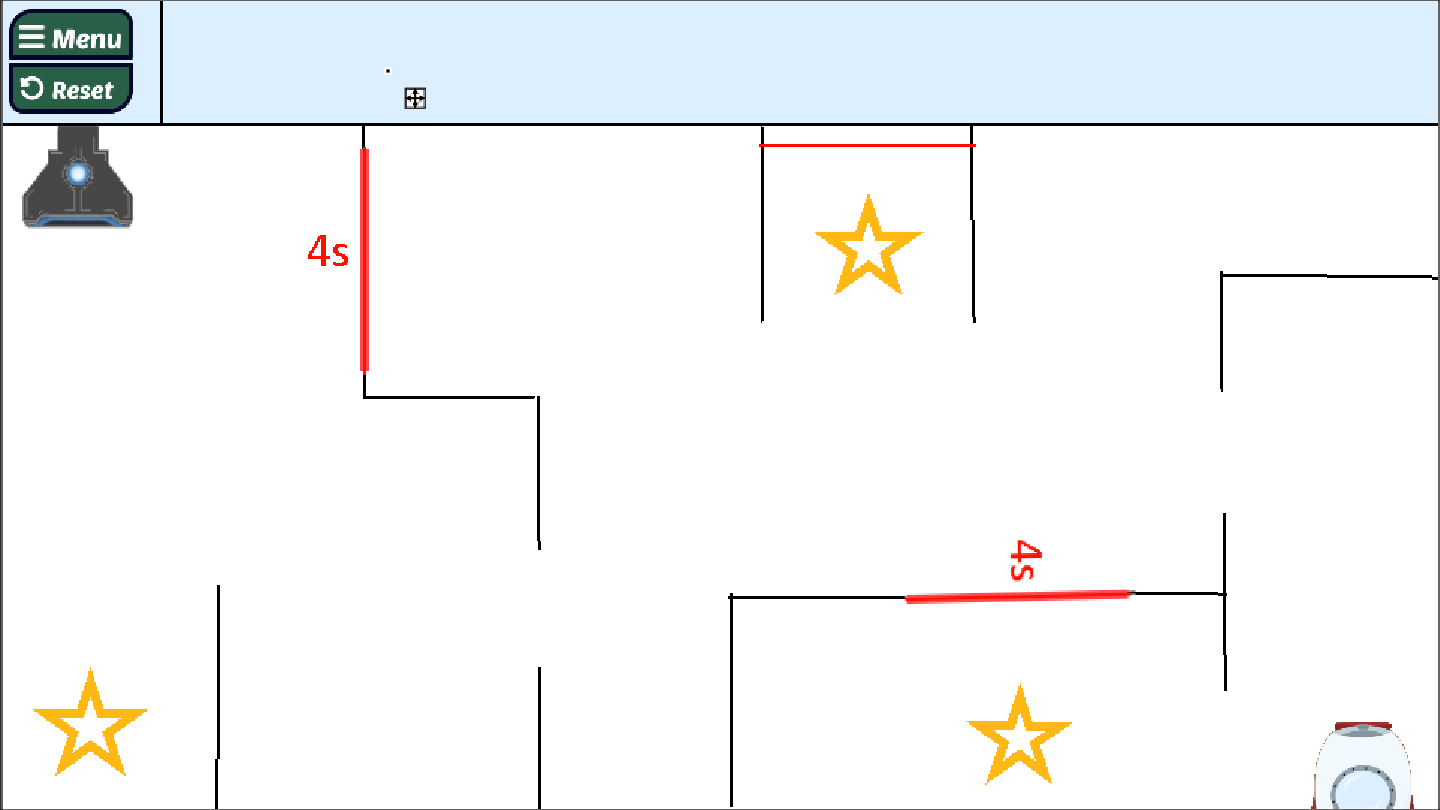
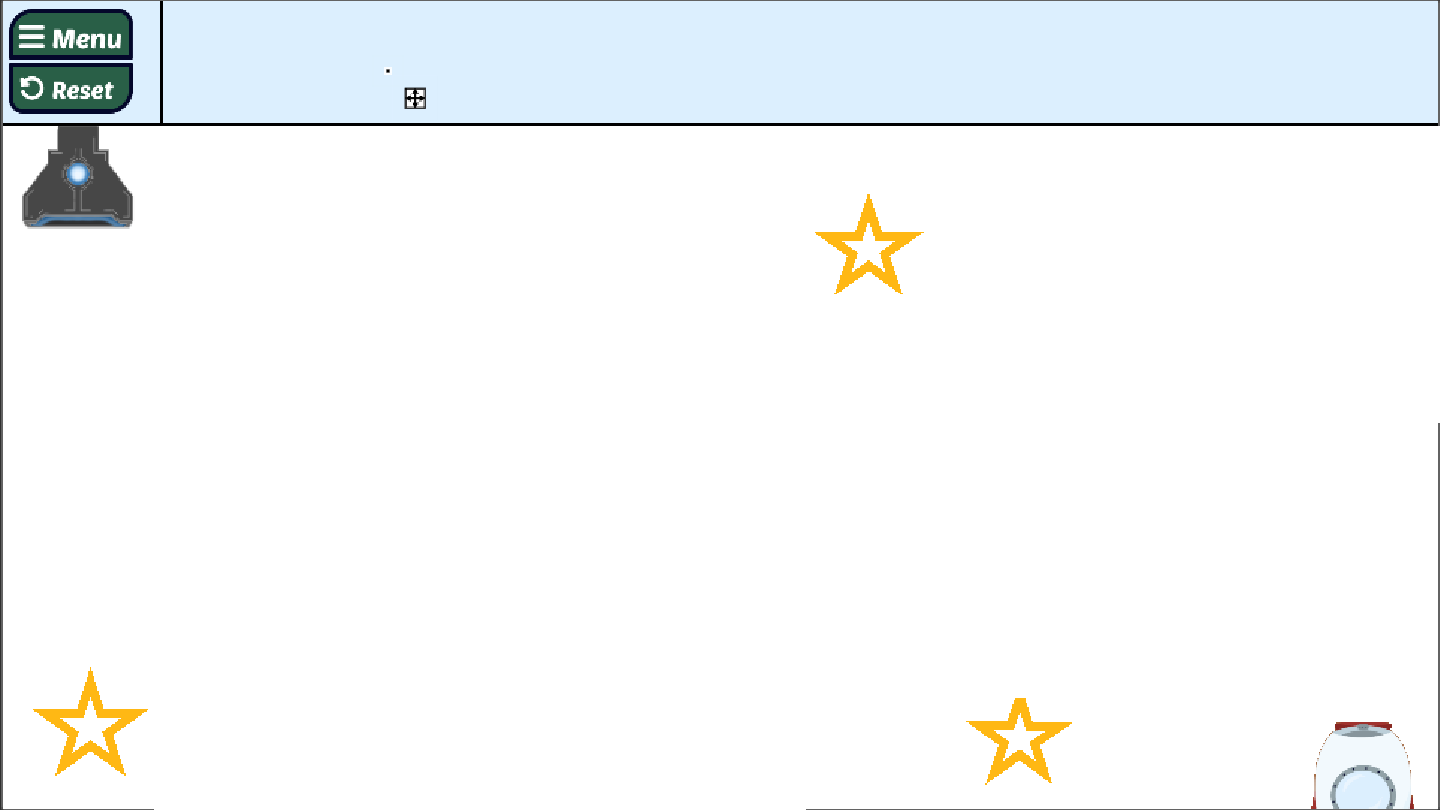
Lasers?
This might be useless, but just to be sure

diff --git a/GXPEngine/Classes/Destroyer.cs b/GXPEngine/Classes/Destroyer.cs
@@ -1,0 +1,73 @@
+using System;
+using System.Collections.Generic;
+using System.Linq;
+using System.Text;
+using GXPEngine;
+using GXPEngine.Physics;
+
+class Destroyer : GameObject
+{
+    Timer laserDelay;
+    bool on;
+    Laser laser;
+    int width;
+    int height;
+
+    private void On()
+    {
+        on = true;
+
+        laser = new Laser(width, height, (int)x, height / 2 + (int)y);
+        laser.position.RotateAroundDegrees(rotation, new GXPEngine.Core.Vector2(x, y));
+        laser.vecRotation.RotateDegrees(rotation);
+        game.Currentscene.AddChild(laser);
+
+        laserDelay.Start();
+    }
+    private void Off()
+    {
+        on = false;
+        laser.LateRemove();
+        laserDelay.Start();
+    }
+
+    public Destroyer(int width, int height, int x, int y, float pRotation = 0) : base()
+    {
+        this.x = x;
+        this.y = y;
+        this.width = width;
+        this.height = height;
+        this.rotation = pRotation;
+
+        laserDelay = new Timer(4f);
+        AddChild(laserDelay);
+
+        PhysicsRectangle side = new PhysicsRectangle(width, width, x, y);
+        side.position.RotateAroundDegrees(rotation, new GXPEngine.Core.Vector2(x, y));
+        side.SetColor(System.Drawing.Color.Gray);
+        game.Currentscene.AddChild(side);
+
+        side = new PhysicsRectangle(width, width, x, height + y);
+        side.position.RotateAroundDegrees(rotation, new GXPEngine.Core.Vector2(x, y));
+        side.SetColor(System.Drawing.Color.Gray);
+        game.Currentscene.AddChild(side);
+
+        On();
+    }
+
+    void Update()
+    {
+        if (laserDelay.done)
+        {
+            if (on)
+            {
+                Off();
+            }
+            else if (!on)
+            {
+                On();
+            }
+        }
+    }
+}
+

diff --git a/GXPEngine/GXPEngine/AddOns/Timer.cs b/GXPEngine/GXPEngine/AddOns/Timer.cs
@@ -7,39 +7,36 @@ using GXPEngine;
 class Timer : GameObject
 {
     public float maxSeconds;
-    float second;
-    int framesCounter;
+    float miniSeconds;
     bool active;
     public bool done;
 
     public float seconds
     {
-        get { return second; }
+        get { return miniSeconds/1000; }
     }
 
     public Timer() : base()
     {
-        start();
+        Start();
     }
 
     public Timer(float setMaxSeconds) : base()
     {
         maxSeconds = setMaxSeconds;
-        start();
+        Start();
     }
 
-    public void start()
+    public void Start()
     {
         done = false;
-        second = 0;
-        framesCounter = 0;
+        miniSeconds = 0;
         active = true;
     }
 
-    public void stop()
+    public void Stop()
     {
-        second = 0;
-        framesCounter = 0;
+        miniSeconds = 0;
         active = false;
     }
 
@@ -47,19 +44,11 @@ class Timer : GameObject
     {
         if (active)
         {
-            if (framesCounter >= 3)
-            {
-                framesCounter = 0;
-                second += 0.05f;
-            }
-            else
-            {
-                framesCounter++;
-            }
+            miniSeconds += Time.deltaTime;
 
             if (seconds >= maxSeconds && maxSeconds != -1)
             {
-                stop();
+                Stop();
                 done = true;
             }
         }

diff --git a/GXPEngine/Classes/Ball.cs b/GXPEngine/Classes/Ball.cs
@@ -8,6 +8,8 @@ using GXPEngine;
 
 class Ball : PhysicsCircle
 {
+    Timer deadTimer;
+
     public Ball(int pRadius) : base(pRadius, new GXPEngine.Core.Vector2(0, 0))
     {
         SetColor(System.Drawing.Color.Blue);
@@ -45,12 +47,30 @@ class Ball : PhysicsCircle
 
     public override void Update()
     {
+        if (deadTimer != null)
+        {
+
+            if (deadTimer.done)
+                LateRemove();
+        }
+
         base.Update();
 
         if (Input.GetKeyDown(Key.S))
         {
             Destroy();
         }
+    }
+
+    public void Die()
+    {
+        if (deadTimer == null)
+        {
+            deadTimer = new Timer(0.05f);
+            AddChild(deadTimer);
+        }
+
+        SetColor(System.Drawing.Color.Red);
     }
 }
 

diff --git a/GXPEngine/GXPEngine/Physics/PhysicsLine.cs b/GXPEngine/GXPEngine/Physics/PhysicsLine.cs
@@ -19,12 +19,13 @@ namespace GXPEngine.Physics
             get { return start - end; }
         }
 
-        public PhysicsLine(Vector2 pStart, Vector2 pEnd, float pBouncyness = 0f) : base((int)Vector2.Distance(pEnd, pStart), 1, CalculateMiddle(pStart, pEnd))
+        public PhysicsLine(Vector2 pStart, Vector2 pEnd, float pBouncyness = 0f, bool pTrigger = false) : base((int)Vector2.Distance(pEnd, pStart), 1, CalculateMiddle(pStart, pEnd))
         {
             start = pStart;
             end = pEnd;
 
             bouncyness = pBouncyness;
+            trigger = pTrigger;
             vecRotation.angleDeg = lineVector.angleDeg;
 
             UpdateScreenPosition();

diff --git a/GXPEngine/GXPEngine/Physics/PhysicsPolygon.cs b/GXPEngine/GXPEngine/Physics/PhysicsPolygon.cs
@@ -87,10 +87,10 @@ namespace GXPEngine.Physics
 
             for (int i = 0; i < points.Count - 1; i++)
             {
-                outP.Add(new PhysicsLine(points[i].position, points[i + 1].position, bouncyness));
+                outP.Add(new PhysicsLine(points[i].position, points[i + 1].position, bouncyness, trigger));
             }
 
-            outP.Add(new PhysicsLine(points[points.Count - 1].position, points[0].position, bouncyness));
+            outP.Add(new PhysicsLine(points[points.Count - 1].position, points[0].position, bouncyness, trigger));
 
             return outP;
         }

diff --git a/GXPEngine/Classes/Laser.cs b/GXPEngine/Classes/Laser.cs
@@ -1,0 +1,23 @@
+using System;
+using System.Collections.Generic;
+using System.Linq;
+using System.Text;
+using GXPEngine.Physics;
+
+public class Laser : PhysicsRectangle
+{
+    public Laser (int width, int height, int x, int y) : base(width, height, x, y) 
+    {
+        trigger = true;
+        SetColor(System.Drawing.Color.Red);
+    }
+
+    public override void Collide(PhysicsObject other)
+    {
+        if (other is Ball)
+        {
+            ((Ball)other).Die();
+        }
+    }
+}
+

diff --git a/GXPEngine/GXPEngine/Physics/PhysicsObject.cs b/GXPEngine/GXPEngine/Physics/PhysicsObject.cs
@@ -20,6 +20,8 @@ namespace GXPEngine.Physics
 		public Vector2 velocity;
 		public Vector2 acceleration;
 		public float bouncyness = 0.0f;
+		public bool trigger = false;
+
 		public virtual bool moving
 		{
 			get { return velocity.length > 0; }
@@ -123,7 +125,14 @@ namespace GXPEngine.Physics
 
 			if (outp)
 			{
-				Collide(other);
+				if (other.trigger)
+				{
+					other.Collide(this);
+				}
+				else
+				{
+					Collide(other);
+				}
 			}
 
 			return outp;

diff --git a/GXPEngine/SetupGame/LevelSetup.cs b/GXPEngine/SetupGame/LevelSetup.cs
@@ -62,6 +62,10 @@ public class EngineTest : Level
 
         AddChild(new MetalWall(1, 1215, 277));
         AddChild(new MetalWall(2, 1215, 300, -90));
+
+        AddChild(new Destroyer(20, 260, 360, 135));
+
+        AddChild(new Destroyer(20, 180, 925, 585, -90));
     }
 
     public override void Update()

diff --git a/GXPEngine/Classes/Placable.cs b/GXPEngine/Classes/Placable.cs
@@ -12,8 +12,6 @@ public abstract class Placable : GameObject
     public int width = 0;
     public int height = 0;
 
-    private bool movable = true;
-
     Vector2 oldPos;
     Vector2 position;
 

diff --git a/GXPEngine/GXPEngine/AddOns/Camera.cs b/GXPEngine/GXPEngine/AddOns/Camera.cs
@@ -61,7 +61,7 @@ namespace GXPEngine {
 
 		public void Shake() 
 		{
-			_shakeTimer.start();
+			_shakeTimer.Start();
 		}
 	}
 }
